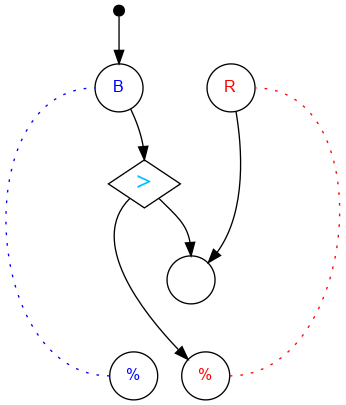
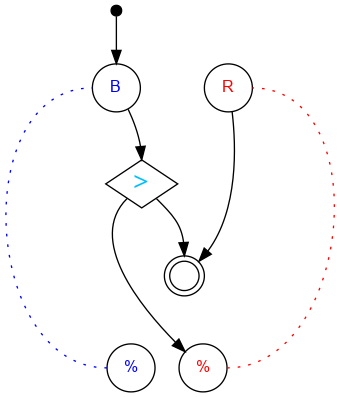
Added 15

diff --git a/graph/board.h b/graph/board.h
@@ -75,7 +75,8 @@
     fontsize=BITSIZE        \
 
 #define INTERCEPTOR_STYLE   \
-    shape=circle            \
+    shape=doublecircle      \
+    width=0.3               \
     label=""                \
 
 /*

diff --git a/text/EducatorGuide.md b/text/EducatorGuide.md
@@ -446,6 +446,10 @@ If bit A starts to the left, intercept a blue ball. If bit A starts to the right
 	|     X     |
 	|____% %____|
 
+### Diagram
+
+![Puzzle #15](../graph/PNG/puzzle15.png)
+
 ## Challenge #16: Termination
 
 ### Objective

diff --git a/text/puzzle15.md b/text/puzzle15.md
@@ -24,3 +24,6 @@ If bit A starts to the left, intercept a blue ball. If bit A starts to the right
 	|     X     |
 	|____% %____|
 
+### Diagram
+
+![Puzzle #15](../graph/PNG/puzzle15.png)
